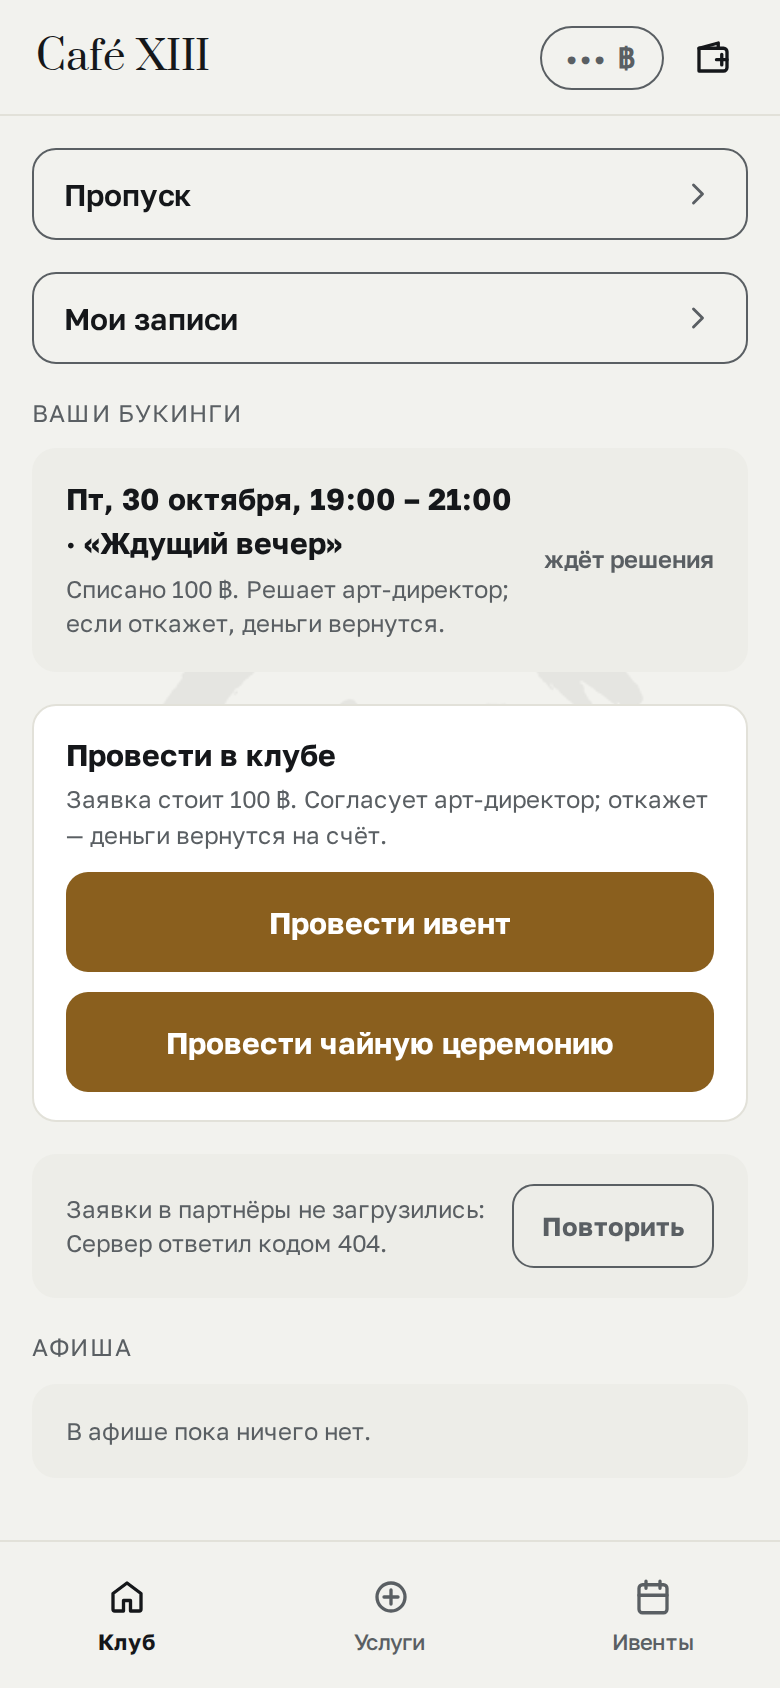
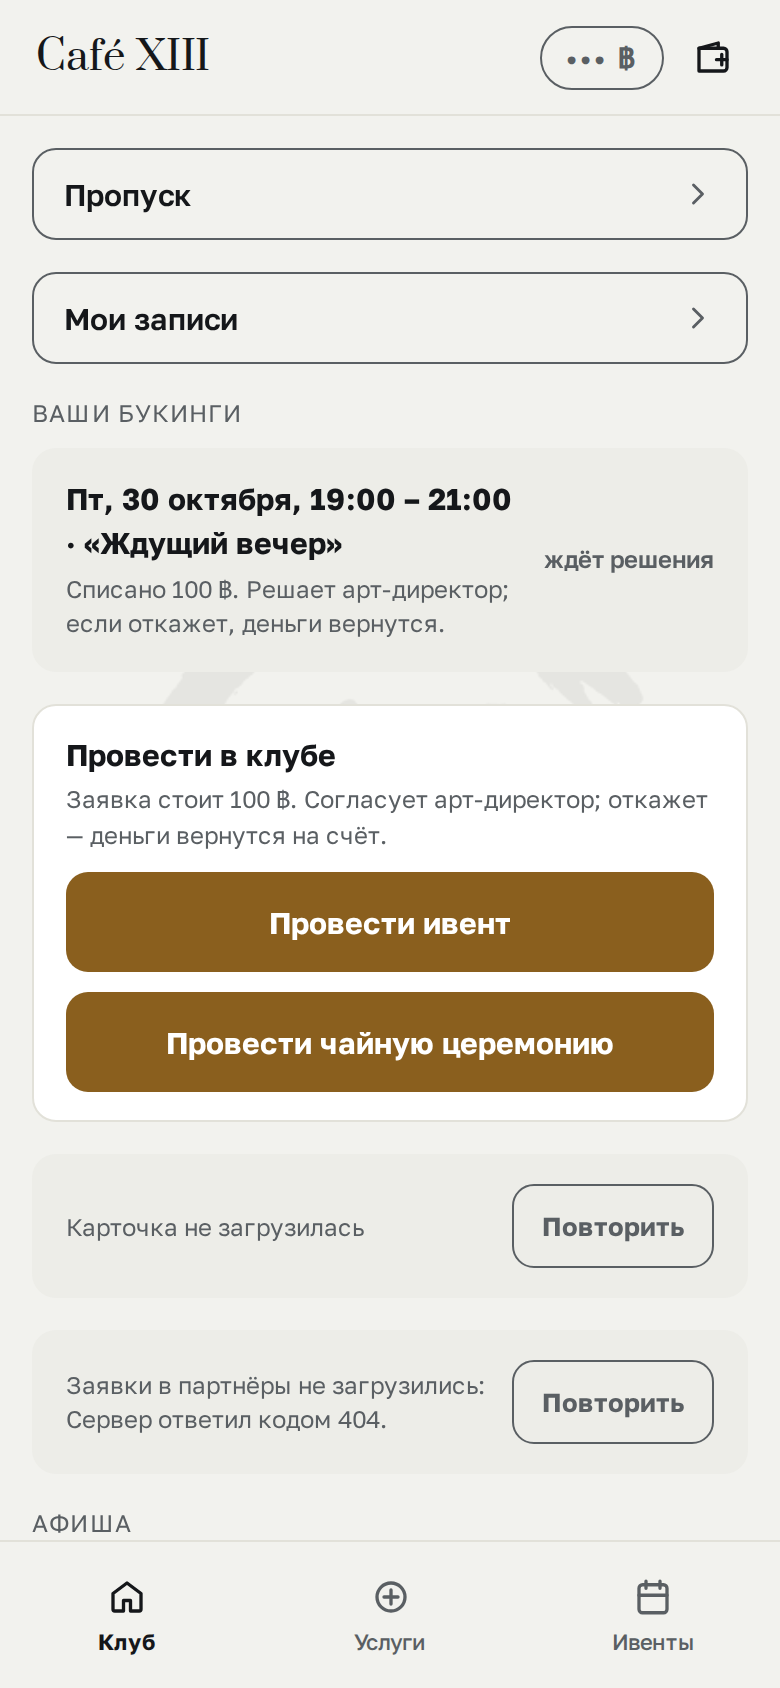
Опись v217: пересъёмка под выложенный клиент b824f24 (v215 → v217)
Снято с дерева b824f24; Pages (built b824f24) отдаёт index.html и все
26 файлов из него байт в байт как в стволе (VERSION v217, ?v=217 ×26).
shots rc=0 (54 из 54 с признаком), vidimost rc=0, catalog --строго rc=0,
--состав 54 = 54. Сменились 2 снимка (29-demo — номер, 66-home-master —
плашка «Карточка не загрузилась» от каталога чая) и 2 файла описи;
номер генератора catalog.py v215 → v217. Видов шести tea-экранов нет.

Claude-Session: opis4-d7

diff --git a/tools/catalog.py b/tools/catalog.py
@@ -71,7 +71,7 @@ def _клиент():
     except м.НеВыполнено as е:
         не_выполнено(str(е))
 
-VERSION = 'v215 · 26.11.2026'
+VERSION = 'v217 · 26.11.2026'
 # ⚠ Тот же порог, что у `tools/check-opis.py` (`ПРЕДЕЛ = 3`), и это не
 #   совпадение: предмет один — насколько опись отстала от клиента. Число
 #   не трогать «на всякий случай»: оно замер, а не вкус (решение
